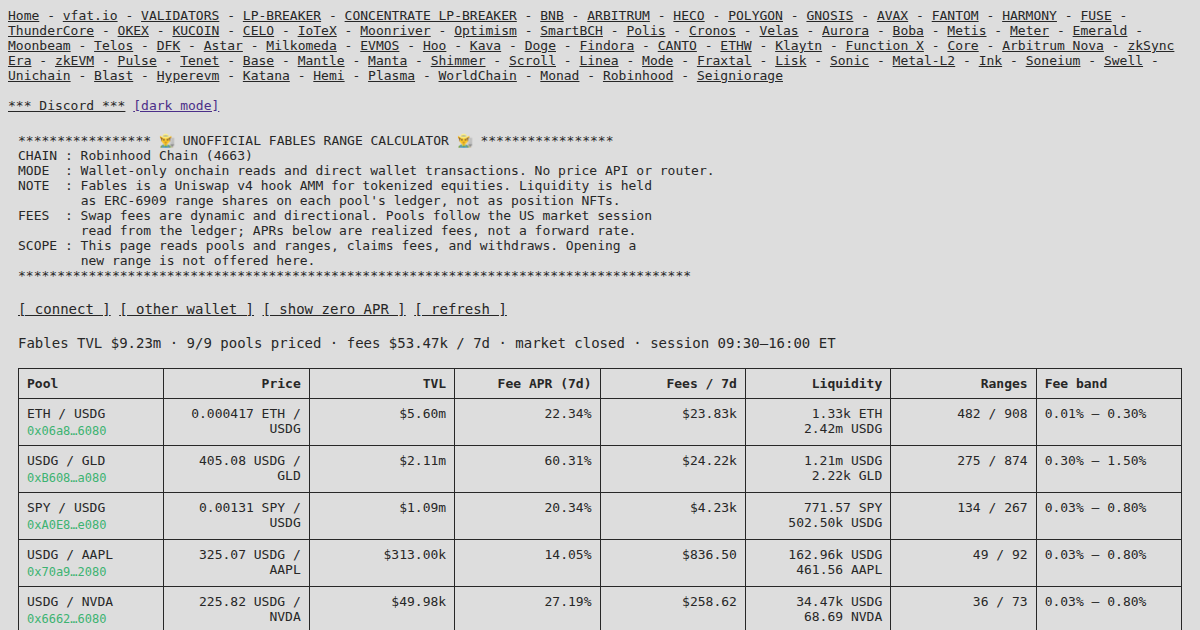
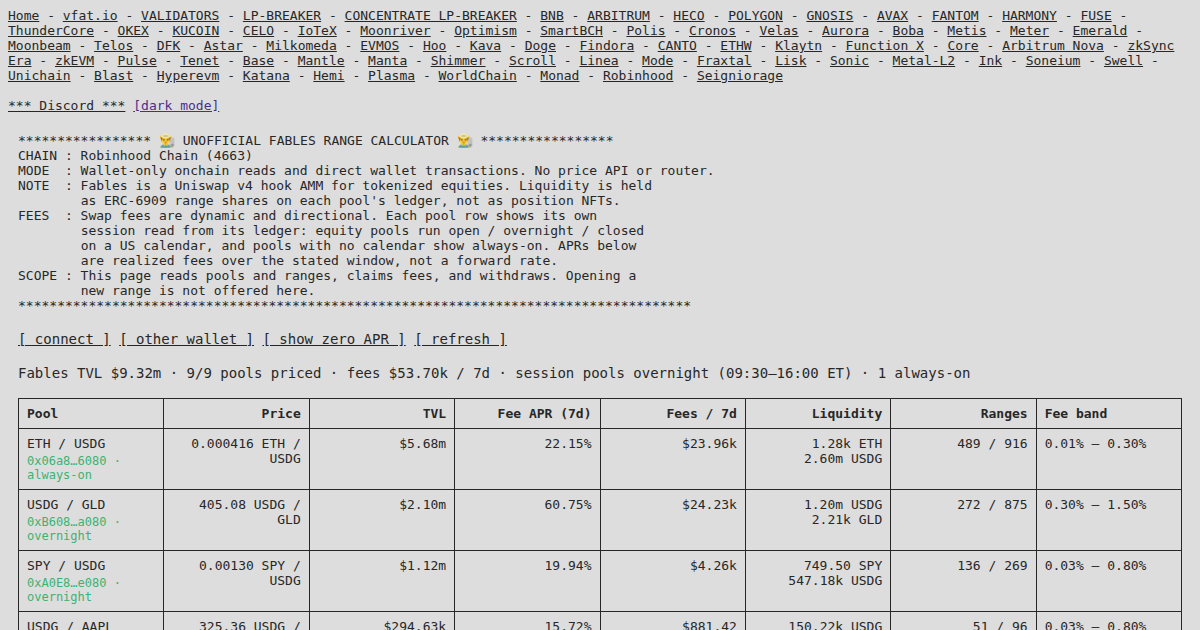
Fix Fables session reporting and guard concurrent claims
Session was modelled globally from the first pool's hook and mislabelled.

The hook Session enum is OPEN, OVERNIGHT, CLOSED. The page mapped value 1 to
"closed" and value 2 to "weekend". Value 1 is the overnight session, when the
pools are actively trading: 46 of the last 60 FeesCollected events on the
USDG/NVDA hook fall in that state, so the page reported "market closed" during
most of the trading it was measuring. Value 2 is every non-trading day, not
just weekends, and returns 2 for Friday after close, Labor Day, Thanksgiving,
and Christmas.

The calendar is also a per-hook capability rather than a chain-wide one. Six
distinct hook implementations back the nine pools, and the ETH/USDG hook, the
largest pool by TVL, has no sessionAt, openSec, or closeSec at all. Reading the
calendar from pools[0] and applying it to every row described that pool as
following a US equity session it has no notion of.

The session is now read per pool alongside the rest of the pool state, hooks
without a calendar are reported as always-on, each row states its own session,
and the summary and banner scope the calendar to the pools that have one.

Separately, claimFees called send() without taking the sending flag that
disables the action buttons, so a double click could preflight and queue two
wallet transactions, the second reverting after the first cleared the fees.
Claim now takes the same single-flight guard as withdraw, and both re-render
[…]

diff --git a/src/js/robinhood_fables.js b/src/js/robinhood_fables.js
@@ -23,7 +23,7 @@ const FablesPage = (function () {
   const maxPrice = 1e12
   const maxUint128 = ethers.BigNumber.from(2).pow(128).sub(1)
   const zeroAddress = ethers.constants.AddressZero
-  const sessionNames = ['open', 'closed', 'weekend']
+  const sessionNames = ['open', 'overnight', 'closed']
   const depositedTopic = ethers.utils.id('Deposited(address,uint256,uint128)')
   const withdrawnTopic = ethers.utils.id('Withdrawn(address,uint256,uint128)')
   const feesTopic = ethers.utils.id('FeesCollected(uint256,uint256,uint256,uint256,uint256,uint256,uint256,uint256,uint256,uint128,uint128,uint64,uint64)')
@@ -55,7 +55,7 @@ const FablesPage = (function () {
   const state = {
     rpc: null, pools: [], tokens: new Map(), prices: new Map(), confidence: new Map(),
     poolManager: null, head: null, headTime: null, feeFrom: null, feeSeconds: feeWindowSeconds,
-    session: null, openSec: null, closeSec: null, positions: [], showZero: false,
+    positions: [], showZero: false,
     eip1193: null, account: null, walletChain: null, boundProvider: null, reownUnsubscribe: null,
     action: null, sending: false, status: '', spinner: null
   }
@@ -133,7 +133,8 @@ const FablesPage = (function () {
         tickSpacing: Number(entry.key.tickSpacing),
         ranges: [], liquidity: null, sqrtPrice: NaN, tick: null,
         amounts: [NaN, NaN], tvl: NaN, fee0: 0, fee1: 0, feeUsd: NaN, apr: NaN,
-        maxFee: null, floorFee: null, paused: false, rangeCount: 0, ready: false
+        maxFee: null, floorFee: null, paused: false, rangeCount: 0, ready: false,
+        session: null, openSec: null, closeSec: null
       }
     })
     if (!state.pools.length) throw new Error('Fables registry returned no active pools.')
@@ -141,15 +142,8 @@ const FablesPage = (function () {
   }
 
   async function loadChainConfig () {
-    const first = state.pools[0].hook
-    const heads = await batch([
-      { target: first, iface: hook, method: 'poolManager', fallback: null },
-      { target: first, iface: hook, method: 'openSec', fallback: null },
-      { target: first, iface: hook, method: 'closeSec', fallback: null },
-      { target: first, iface: hook, method: 'sessionAt', args: [state.headTime], fallback: null }
-    ])
-    state.poolManager = heads[0]; state.openSec = heads[1] === null ? null : Number(heads[1])
-    state.closeSec = heads[2] === null ? null : Number(heads[2]); state.session = heads[3] === null ? null : Number(heads[3])
+    const managers = await batch(state.pools.map(pool => ({ target: pool.hook, iface: hook, method: 'poolManager', fallback: null })))
+    state.poolManager = managers.find(Boolean) || null
     if (!state.poolManager) throw new Error('Fables pool manager unavailable.')
   }
 
@@ -178,11 +172,17 @@ const FablesPage = (function () {
       calls.push({ target: pool.hook, iface: hook, method: 'maxFee', args: [pool.id], fallback: null })
       calls.push({ target: pool.hook, iface: hook, method: 'pokeFloor', args: [pool.id], fallback: null })
       calls.push({ target: pool.hook, iface: hook, method: 'paused', fallback: false })
+      calls.push({ target: pool.hook, iface: hook, method: 'sessionAt', args: [state.headTime], fallback: null })
+      calls.push({ target: pool.hook, iface: hook, method: 'openSec', fallback: null })
+      calls.push({ target: pool.hook, iface: hook, method: 'closeSec', fallback: null })
     })
     const values = await batch(calls); let cursor = 0
     state.pools.forEach(function (pool) {
       const slots = values[cursor++]; const maxFee = values[cursor++]; const floorFee = values[cursor++]; const paused = values[cursor++]
+      const session = values[cursor++]; const openSec = values[cursor++]; const closeSec = values[cursor++]
       pool.maxFee = maxFee === null ? null : Number(maxFee); pool.floorFee = floorFee === null ? null : Number(floorFee); pool.paused = Boolean(paused)
+      pool.openSec = openSec === null ? null : Number(openSec); pool.closeSec = closeSec === null ? null : Number(closeSec)
+      pool.session = pool.openSec === null || session === null ? null : Number(session)
       if (!slots || slots.length < 4) return
       const packed = ethers.BigNumber.from(slots[0])
       let tick = packed.shr(160).mask(24).toNumber(); if (tick >= 2 ** 23) tick -= 2 ** 24
@@ -307,9 +307,17 @@ const FablesPage = (function () {
     const tvl = state.pools.reduce((sum, pool) => sum + (finite(pool.tvl) ? pool.tvl : 0), 0)
     const fees = state.pools.reduce((sum, pool) => sum + (finite(pool.feeUsd) ? pool.feeUsd : 0), 0)
     const ready = state.pools.filter(pool => pool.ready).length
-    const session = state.session === null ? 'unknown' : sessionNames[state.session] || 'unknown'
-    const window = state.openSec === null ? '' : ' · session ' + clock(state.openSec) + '–' + clock(state.closeSec) + ' ET'
-    node.textContent = 'Fables TVL ' + usd(tvl) + ' · ' + ready + '/' + state.pools.length + ' pools priced · fees ' + usd(fees) + ' / ' + Math.round(state.feeSeconds / 86400) + 'd · market ' + session + window
+    const scheduled = state.pools.filter(pool => pool.session !== null)
+    const alwaysOn = state.pools.filter(pool => pool.ready && pool.openSec === null).length
+    let calendar = ''
+    if (scheduled.length) {
+      const first = scheduled[0]
+      const mixed = scheduled.some(pool => pool.session !== first.session)
+      calendar = ' · session pools ' + (mixed ? 'mixed' : sessionNames[first.session] || 'unknown') +
+        ' (' + clock(first.openSec) + '–' + clock(first.closeSec) + ' ET)'
+    }
+    if (alwaysOn) calendar += ' · ' + alwaysOn + ' always-on'
+    node.textContent = 'Fables TVL ' + usd(tvl) + ' · ' + ready + '/' + state.pools.length + ' pools priced · fees ' + usd(fees) + ' / ' + Math.round(state.feeSeconds / 86400) + 'd' + calendar
   }
 
   function renderPools () {
@@ -322,7 +330,8 @@ const FablesPage = (function () {
     const body = e('tbody')
     visible.forEach(function (pool) {
       const row = e('tr'); const name = e('td')
-      append(name, e('span', { className: 'fables-name', text: poolName(pool) }), e('span', { className: 'fables-sub', text: short(pool.hook) + (pool.paused ? ' · paused' : '') }))
+      const label = pool.session === null ? 'always-on' : sessionNames[pool.session] || 'session unknown'
+      append(name, e('span', { className: 'fables-name', text: poolName(pool) }), e('span', { className: 'fables-sub', text: short(pool.hook) + ' · ' + label + (pool.paused ? ' · paused' : '') }))
       row.appendChild(name)
       addCell(row, poolPrice(pool))
       addCell(row, usd(pool.tvl), finite(pool.tvl) ? '' : 'fables-unpriced')
@@ -432,8 +441,12 @@ const FablesPage = (function () {
 
   async function claimFees (position) {
     requireWallet()
+    if (state.sending) throw new Error('Another transaction is already in progress.')
     const pool = position.pool
-    await send({ to: pool.hook, data: hook.encodeFunctionData('claimFees', [poolKeyArgs(pool), position.tickLower, position.tickUpper, state.account, 0]) })
+    state.sending = true; render()
+    try {
+      await send({ to: pool.hook, data: hook.encodeFunctionData('claimFees', [poolKeyArgs(pool), position.tickLower, position.tickUpper, state.account, 0]) })
+    } finally { state.sending = false; render() }
   }
 
   function openWithdraw (position) {
@@ -481,10 +494,11 @@ const FablesPage = (function () {
     const min1 = parseMinimum(action.min1, info1, info1.symbol + ' minimum')
     if ((min0.isZero() || min1.isZero()) && !window.confirm('A zero minimum accepts any amount out. Continue?')) throw new Error('Cancelled.')
     if (min0.gt(maxUint128) || min1.gt(maxUint128)) throw new Error('Minimum is too large.')
-    state.sending = true; renderAction()
+    if (state.sending) throw new Error('Another transaction is already in progress.')
+    state.sending = true; render(); renderAction()
     try {
       await send({ to: pool.hook, data: hook.encodeFunctionData('withdraw', [poolKeyArgs(pool), position.tickLower, position.tickUpper, shares, state.account, min0, min1, deadline()]) })
-    } finally { state.sending = false; renderAction() }
+    } finally { state.sending = false; render(); renderAction() }
   }
 
   async function refreshAfterAction () {
